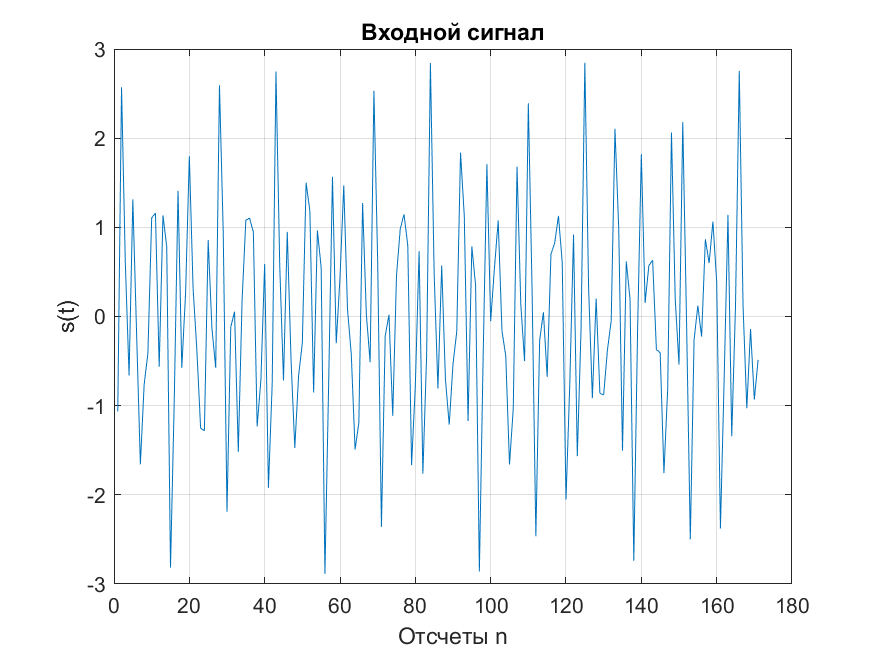
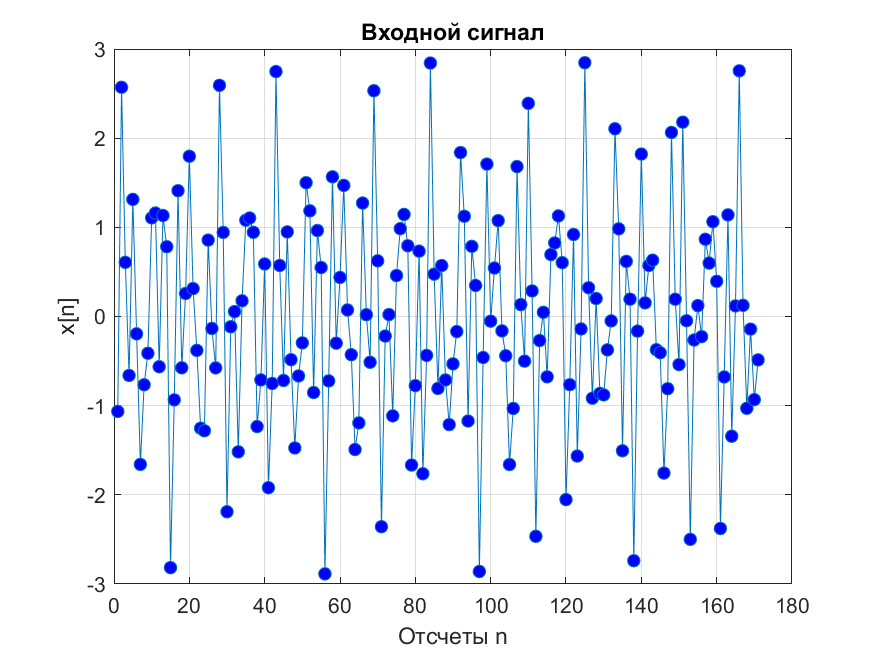
Новые png к  лабам по требованию преподавателя

diff --git a/Lab 2/Lab2.m b/Lab 2/Lab2.m
@@ -2,17 +2,17 @@ clc;
 close all;
 clear;
 
-omega = linspace(0, 0.5, 85)
+omega = linspace(0, 0.5, 200)
 m = 0:99;
-filename = strcat('DVRF.txt')
+filename = strcat('Signals_filt.txt')
 addpath(genpath('Пункт 1'))
 
 data = importdata(filename);
 
-plot(omega, data(:, 4))
+plot(data(:,2),'-o', 'MarkerFaceColor','blue')
 grid('on')
 
-title('аргумент ДВРФ выходного сигнала')
-ylabel('arg(S(\Omega))')
-xlabel('Безразмерная частота')
-print(['аргумент выходного сигнала ДВРФ'],'-dpng')
+title('Выходной сигнал')
+ylabel('x[n]')
+xlabel('Отсчеты n')
+print(['Выходной сигнал'],'-dpng')
